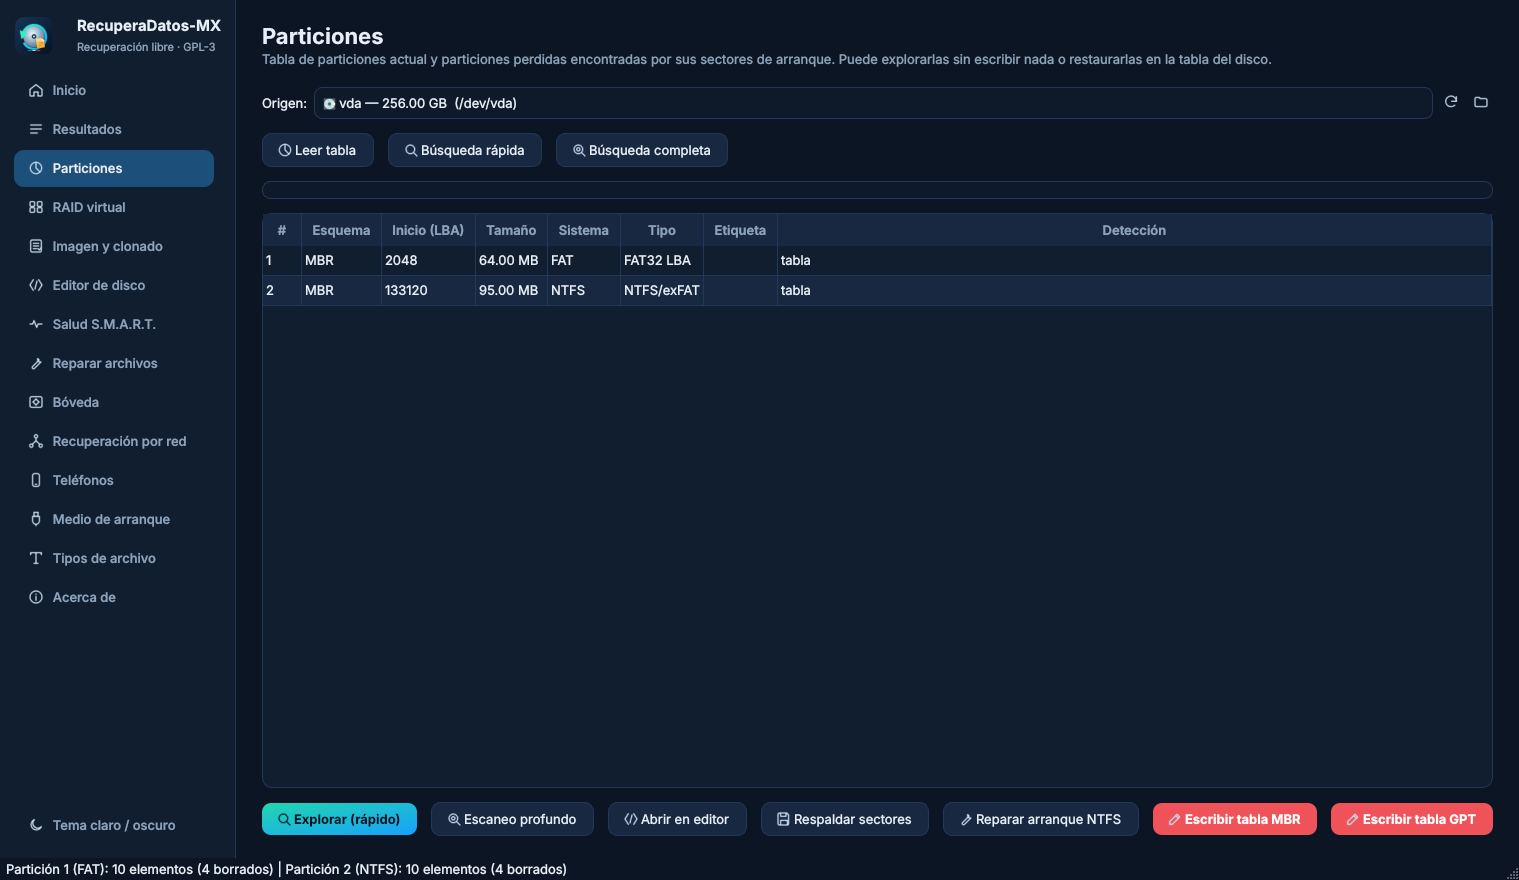
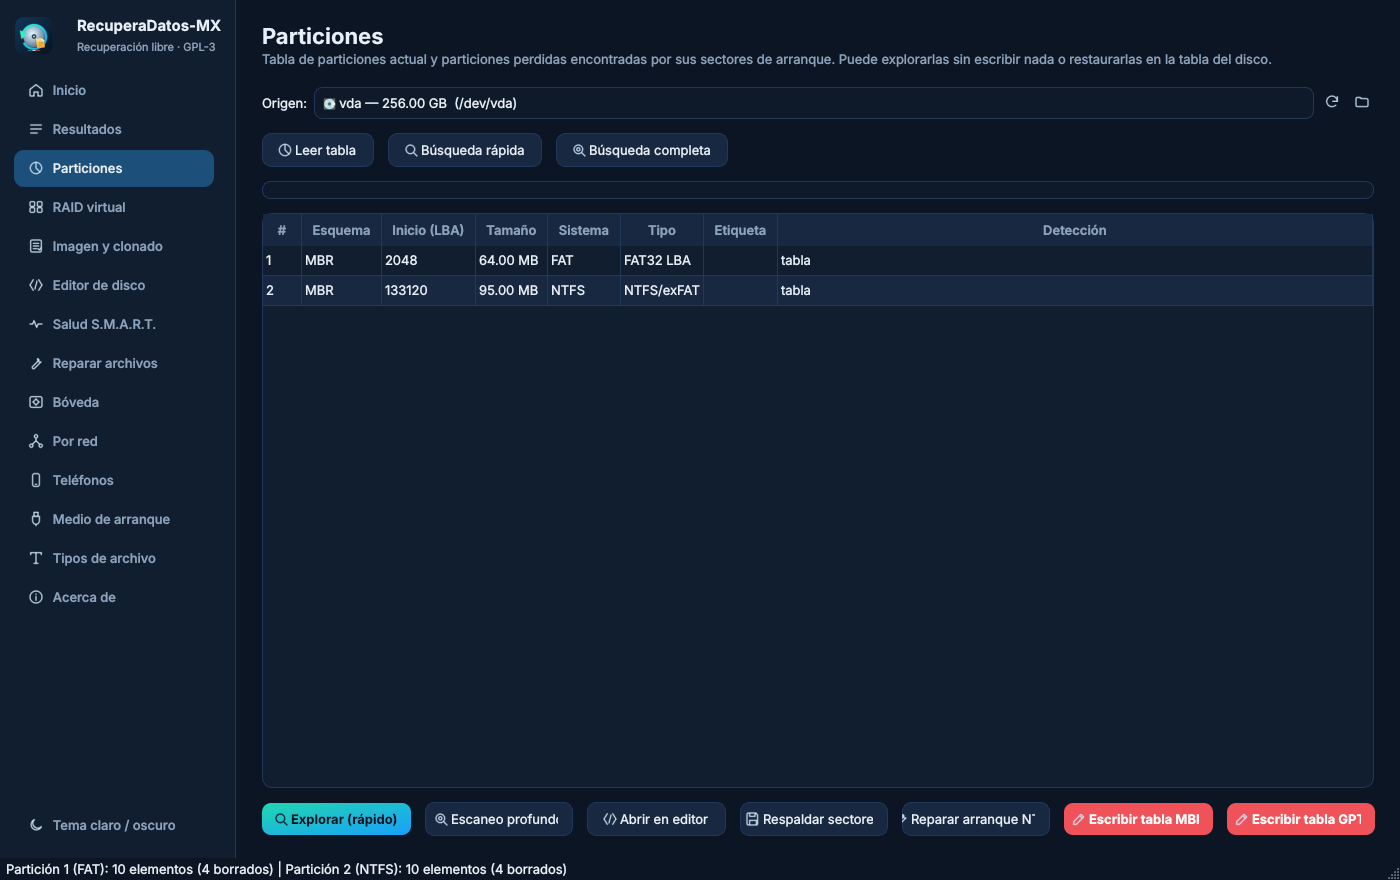
1.1.1: ventana maximizada en pantallas pequeñas (modo live, laptops), menú lateral más corto, capturas
Claude-Session: https://claude.ai/code/session_01X7FaHZzw3sZpDayNx9Up9o

diff --git a/recuperadatos_mx/gui/app.py b/recuperadatos_mx/gui/app.py
@@ -26,7 +26,7 @@ NAV = [
     ("salud", "Salud S.M.A.R.T.", "health", "Estado de salud, temperatura y alertas de discos y SSD"),
     ("reparar", "Reparar archivos", "repair", "Reparar fotos JPEG, PDF y documentos de Office/ZIP dañados"),
     ("boveda", "Bóveda", "vault", "Protección preventiva de carpetas importantes"),
-    ("red", "Recuperación por red", "network", "Recuperar datos de otra computadora de la red"),
+    ("red", "Por red", "network", "Recuperar datos de otra computadora de la red"),
     ("moviles", "Teléfonos", "phone", "iPhone/iPad (respaldos, incluso cifrados), Android por USB y mensajes borrados"),
     ("arranque", "Medio de arranque", "usb", "Crear una memoria USB de arranque para equipos que no inician"),
     ("firmas", "Tipos de archivo", "signature", "Firmas del escaneo profundo y firmas personalizadas"),
@@ -43,6 +43,7 @@ class MainWindow(QMainWindow):
         self.setWindowTitle(f"{__app_name__} {__version__}")
         self.setWindowIcon(QIcon(os.path.join(ASSETS, "logo.png")))
         self.resize(1360, 860)
+        self.setMinimumSize(980, 640)
         root = QWidget()
         root.setObjectName("Root")
         h = QHBoxLayout(root)
@@ -164,7 +165,11 @@ def main(argv=None) -> None:
     if sys.platform.startswith("linux"):
         app.setDesktopFileName("recuperadatos-mx")
     w = MainWindow()
-    w.show()
+    geo = app.primaryScreen().availableGeometry() if app.primaryScreen() else None
+    if geo is not None and (geo.width() < 1440 or geo.height() < 900):
+        w.showMaximized()  # pantallas pequeñas (laptops, modo live): usar todo el espacio
+    else:
+        w.show()
     for a in (argv or sys.argv)[1:]:
         if os.path.isfile(a):
             w.home.add_image(a)

diff --git a/recuperadatos_mx/__init__.py b/recuperadatos_mx/__init__.py
@@ -9,7 +9,7 @@ versión posterior.
 """
 
 __app_name__ = "RecuperaDatos-MX"
-__version__ = "1.1.0"
+__version__ = "1.1.1"
 __author__ = "Santiago Miguel"
 __email__ = "chago2850@gmail.com"
 __license__ = "GPL-3.0-or-later"
